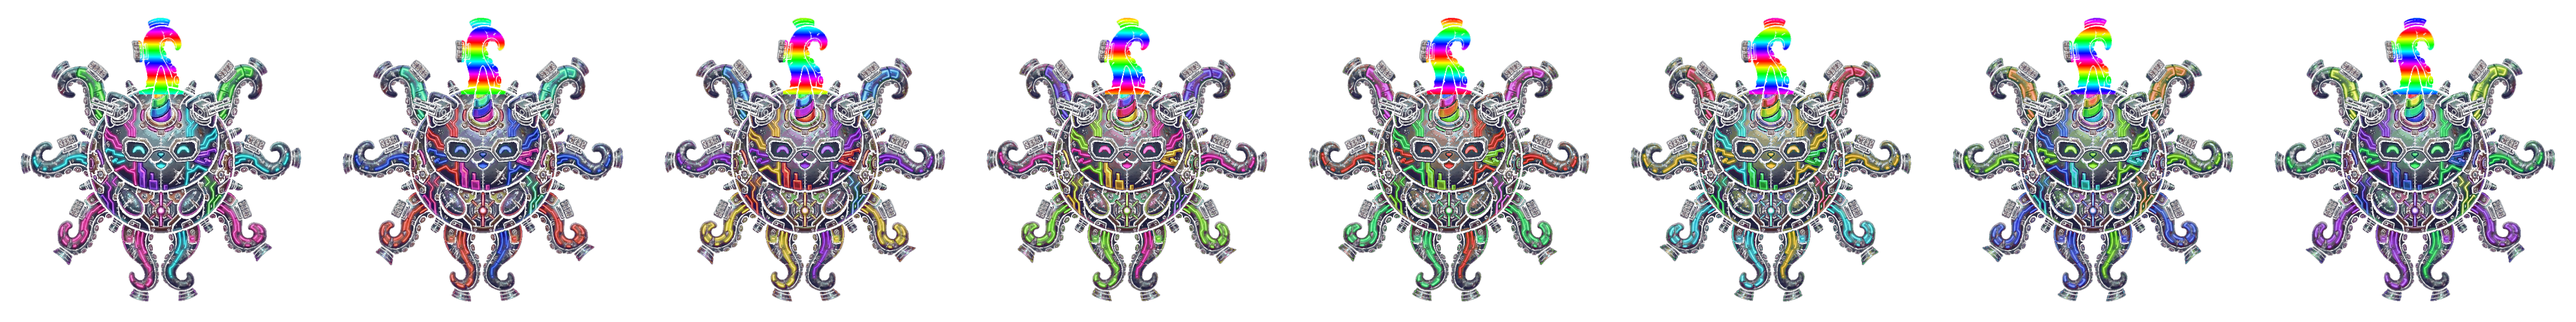
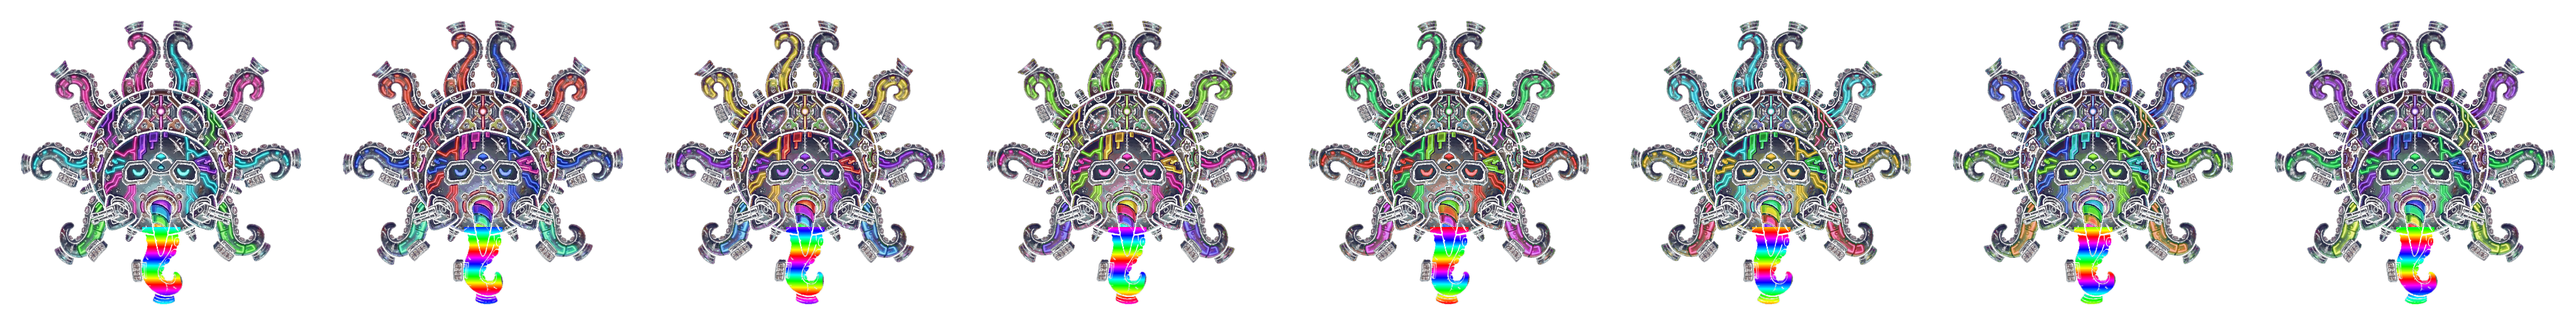
fix: Flip Oktohorncat vertically so face points up, adjust thrusters and horn emitter

diff --git a/src/scenes/GameScene.js b/src/scenes/GameScene.js
@@ -337,7 +337,7 @@ export default class GameScene extends Phaser.Scene {
         if (this.shipClass === 'interceptor') { shipScale = 0.11; shipTex = 'ship_neon_flamingo'; shipAnim = null; }
         if (this.shipClass === 'dreadnought') { shipScale = 0.20; shipTex = 'ship_arcade_kapsel'; shipAnim = null; }
         if (this.shipClass === 'phantom') { shipScale = 0.155; shipTex = 'ship_phantom'; shipAnim = 'anim_ship_phantom'; }
-        if (this.shipClass === 'paladin') { shipScale = 0.45; shipTex = 'ship_paladin'; shipAnim = 'anim_paladin'; this.playerBaseAngle = 90; }
+        if (this.shipClass === 'paladin') { shipScale = 0.45; shipTex = 'ship_paladin'; shipAnim = 'anim_paladin'; }
         if (this.shipClass === 'bomber') { shipScale = 0.125; shipTex = 'ship_bomber'; shipAnim = null; }
 
         this.playerBaseAngle = 0; // New generated ships point UP
@@ -521,10 +521,10 @@ export default class GameScene extends Phaser.Scene {
             // ── OKTOHORNCAT: Tentacle Flames & Sparkles ──
             this.paladinFlames = [];
             this.paladinSparks = [];
-            // tentacle index: 0=top, 1=TR, 2=R, 3=BR, 4=B, 5=BL, 6=L, 7=TL
+            // tentacle index: 0=B, 1=BR, 2=R, 3=TR, 4=T, 5=TL, 6=L, 7=BL (flipped image)
             const tentacleOffsets = [
-                { x: 0, y: -90 },   { x: 65, y: -65 },  { x: 90, y: 0 },    { x: 65, y: 65 },
-                { x: 0, y: 90 },    { x: -65, y: 65 },  { x: -90, y: 0 },   { x: -65, y: -65 }
+                { x: 0, y: 90 },    { x: 65, y: 65 },   { x: 90, y: 0 },    { x: 65, y: -65 },
+                { x: 0, y: -90 },   { x: -65, y: -65 }, { x: -90, y: 0 },   { x: -65, y: 65 }
             ];
             tentacleOffsets.forEach((off, i) => {
                 const f = this.add.particles(0, 0, 'p_glow', {
@@ -544,9 +544,9 @@ export default class GameScene extends Phaser.Scene {
                 this.paladinSparks.push(s);
             });
 
-            // ── OKTOHORNCAT: Rainbow Horn Flow (upward flowing rgb particles) ──
+            // ── OKTOHORNCAT: Rainbow Horn Flow (horn is now at bottom, particles shoot upward) ──
             this.paladinHornEmitter = this.add.particles(0, 0, 'p_glow', {
-                follow: this.player, followOffset: { x: 0, y: -90 },
+                follow: this.player, followOffset: { x: 0, y: 90 },
                 speedY: { min: -40, max: -90 }, speedX: { min: -8, max: 8 },
                 scale: { start: 0.25, end: 0 }, alpha: { start: 1, end: 0 },
                 blendMode: 'ADD', lifespan: 400, frequency: 15
